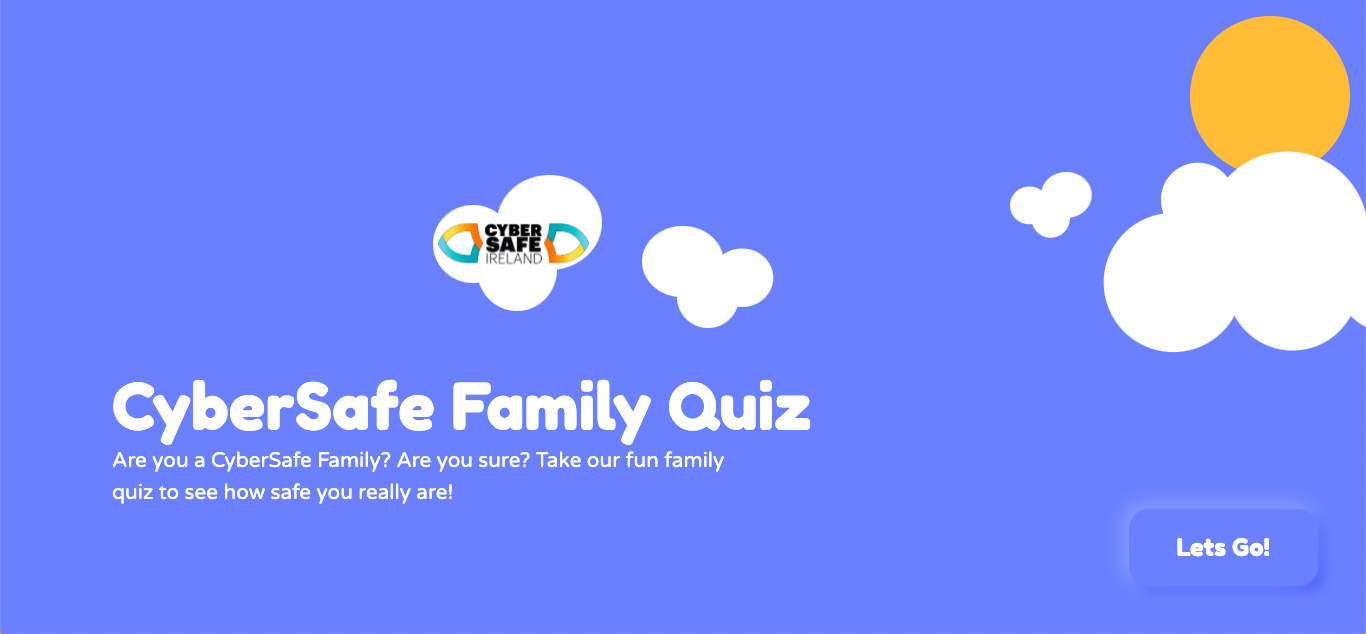
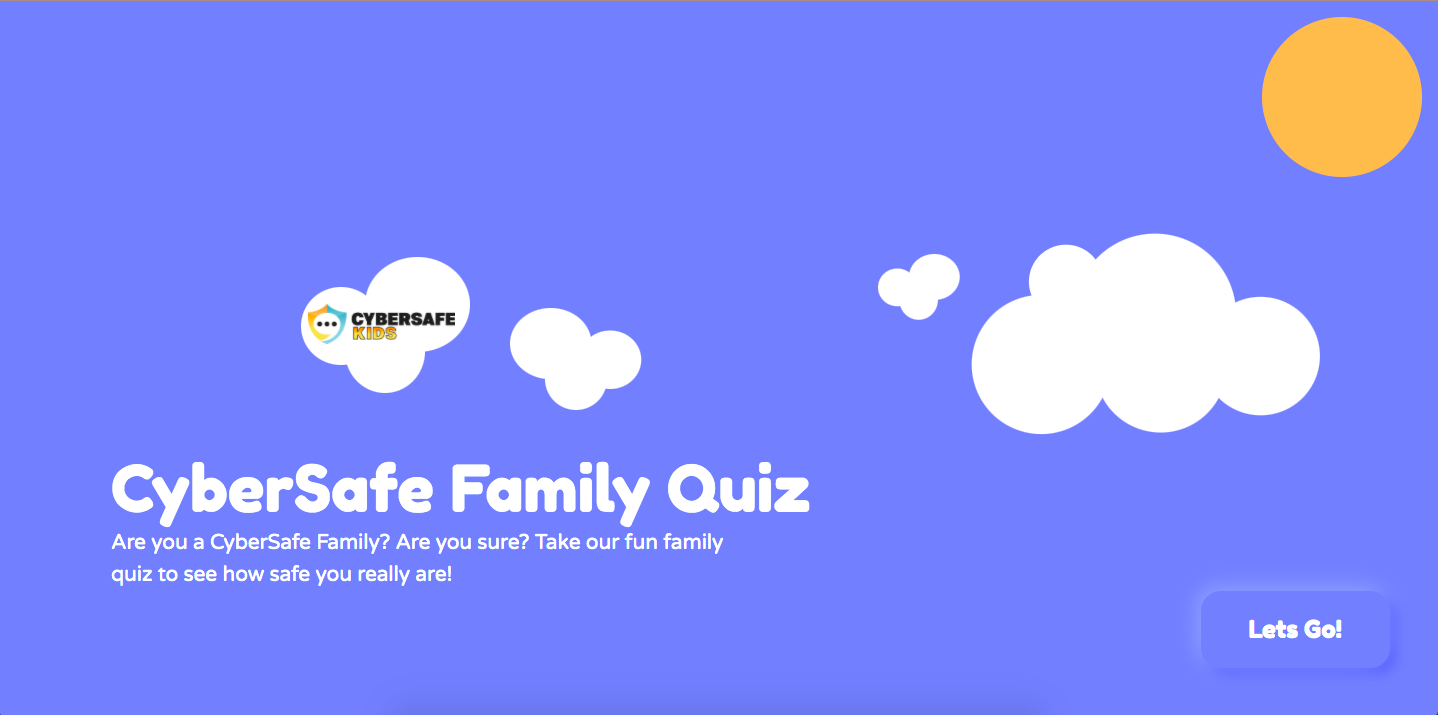
Add updated image for cyberbreak project

diff --git a/pages/projects.js b/pages/projects.js
@@ -59,7 +59,7 @@ export default function Projects() {
           <p>
             Made with Miro, GitHub and Google docs.
           </p>
-          <p>This project was part of a Catalyst programme.</p>
+          <p>This project was part of a CAST/Catalyst programme.</p>
         </div>
       </section>
       <section className={styles.projectContainer}>
@@ -76,6 +76,7 @@ export default function Projects() {
             ‘cybersafety’ against a series of topics.
           </p>
           <p>Made with Gatsby, Firebase and Netlify CMS.</p>
+          <p>This project was built for the Irish organisation, CyberSafeKids.</p>
         </div>
       </section>
       <section className={styles.projectContainer}>
@@ -92,6 +93,7 @@ export default function Projects() {
             at home.{" "}
           </p>
           <p>Made with ReactJS</p>
+          <p>This project was built for the Irish organisation, CyberSafeKids.</p>
         </div>
       </section>
       <section className={styles.projectContainer}>
@@ -135,16 +137,15 @@ export default function Projects() {
           <h2>My Best Life</h2>
           <p>
             A range of MVP apps prototyped in collaboration with three youth charities
-            as part of the second phase of a definition programme with New Philanthropy Capital. 
+            as part a definition programme with New Philanthropy Capital. 
           </p>
           <p>
-            The three apps explored different methods of engaging with young people, 
-            especially those who live in digital poverty or are disadvantaged by living in remote locations. 
-            We conducted usability testing with various groups of young people to inform the next phase of the programme.
+            The 3 apps provide different methods of engagement with young people.
+            We conducted usability testing with various groups of yp to inform the next phase of the programme.
             </p>
             <p>
-            Youth Coin and Youth Vote focuses on involving young people in the decision making processes. 
-            The service recommender app was a space that personalised the search for services available to young people.
+            Youth Coin and Youth Vote focus on involving yp in the decision making processes. 
+            The service recommender app is a space that personalises the search for services available.
           </p>
           <p>Made with Miro and Figma.</p>
         </div>
